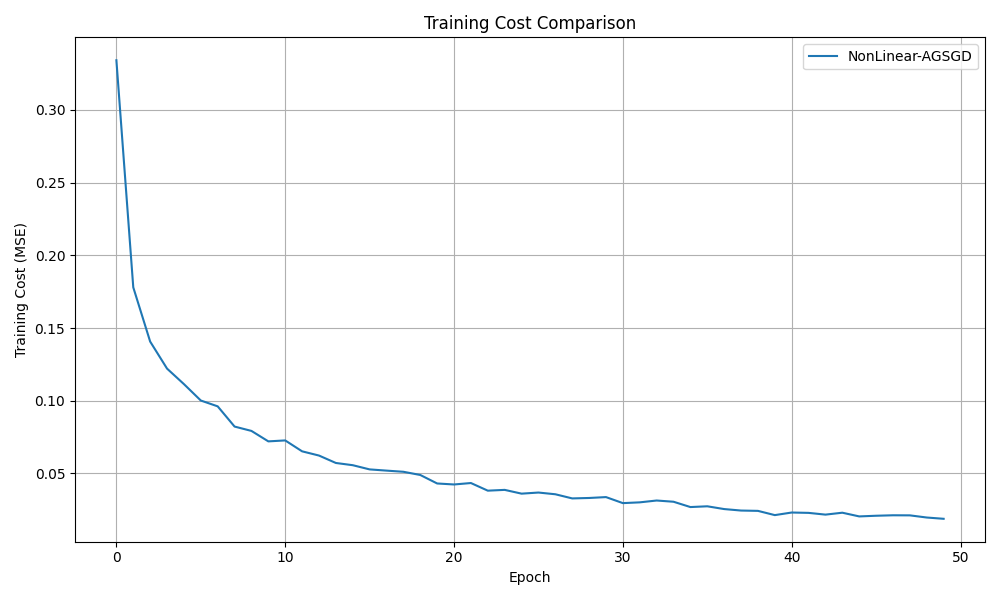
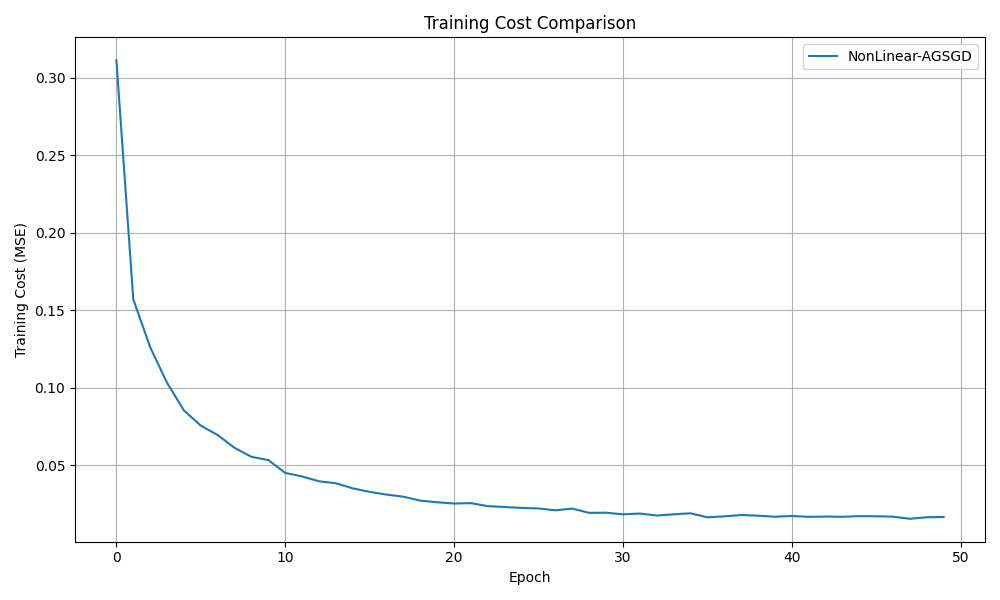
999 10 20

diff --git a/aem pit/main.py b/aem pit/main.py
@@ -18,11 +18,11 @@ def main():
     criterion = torch.nn.CrossEntropyLoss()
 
     optimizers_to_run = {
-        'Vanilla': lambda params: optim.SGD(params, lr=1),
+        #'Vanilla': lambda params: optim.SGD(params, lr=1),
         #'AdaGrad': lambda params: optim.Adagrad(params, lr=1.0),
         #'AdaDelta': lambda params: optim.Adadelta(params, lr=1.0),
-        'AG-SGD': lambda params: AGSGDOptimizer(params, s=1, d=0.90, iter_freq=10),
-        'NonLinear-AGSGD': lambda params: NonLinearAGSGDOptimizer(params, s=1, d=0.90, iter_freq=10, k=40.0),  # Much slower decay
+        #'AG-SGD': lambda params: AGSGDOptimizer(params, s=1, d=0.90, iter_freq=10),
+        'NonLinear-AGSGD': lambda params: NonLinearAGSGDOptimizer(params, s=1, d=0.999, iter_freq=10, k=20.0),  # More aggressive decay
     }
 
     all_costs = {}
